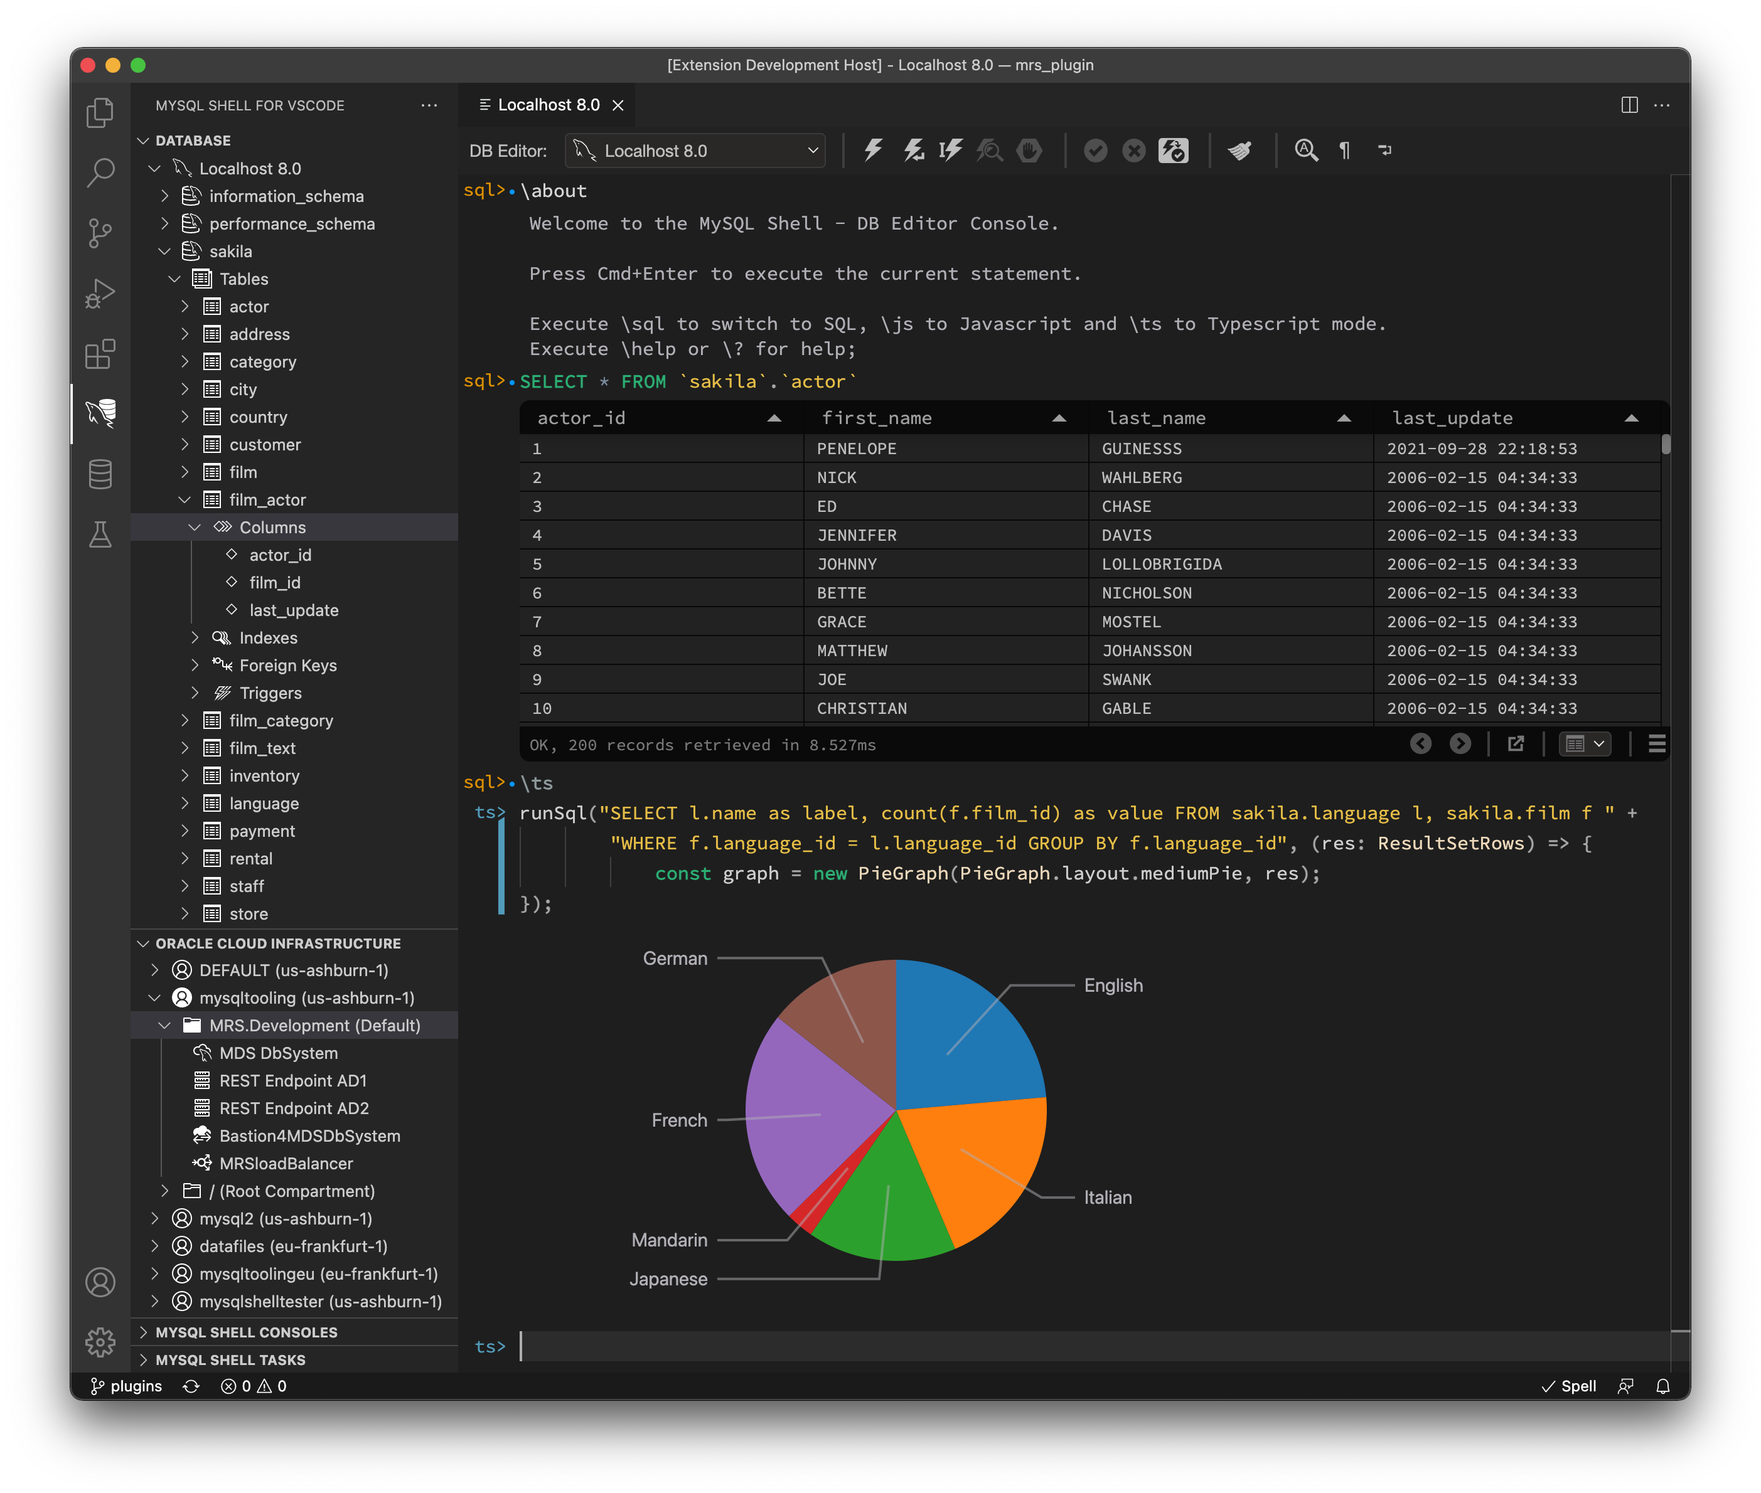
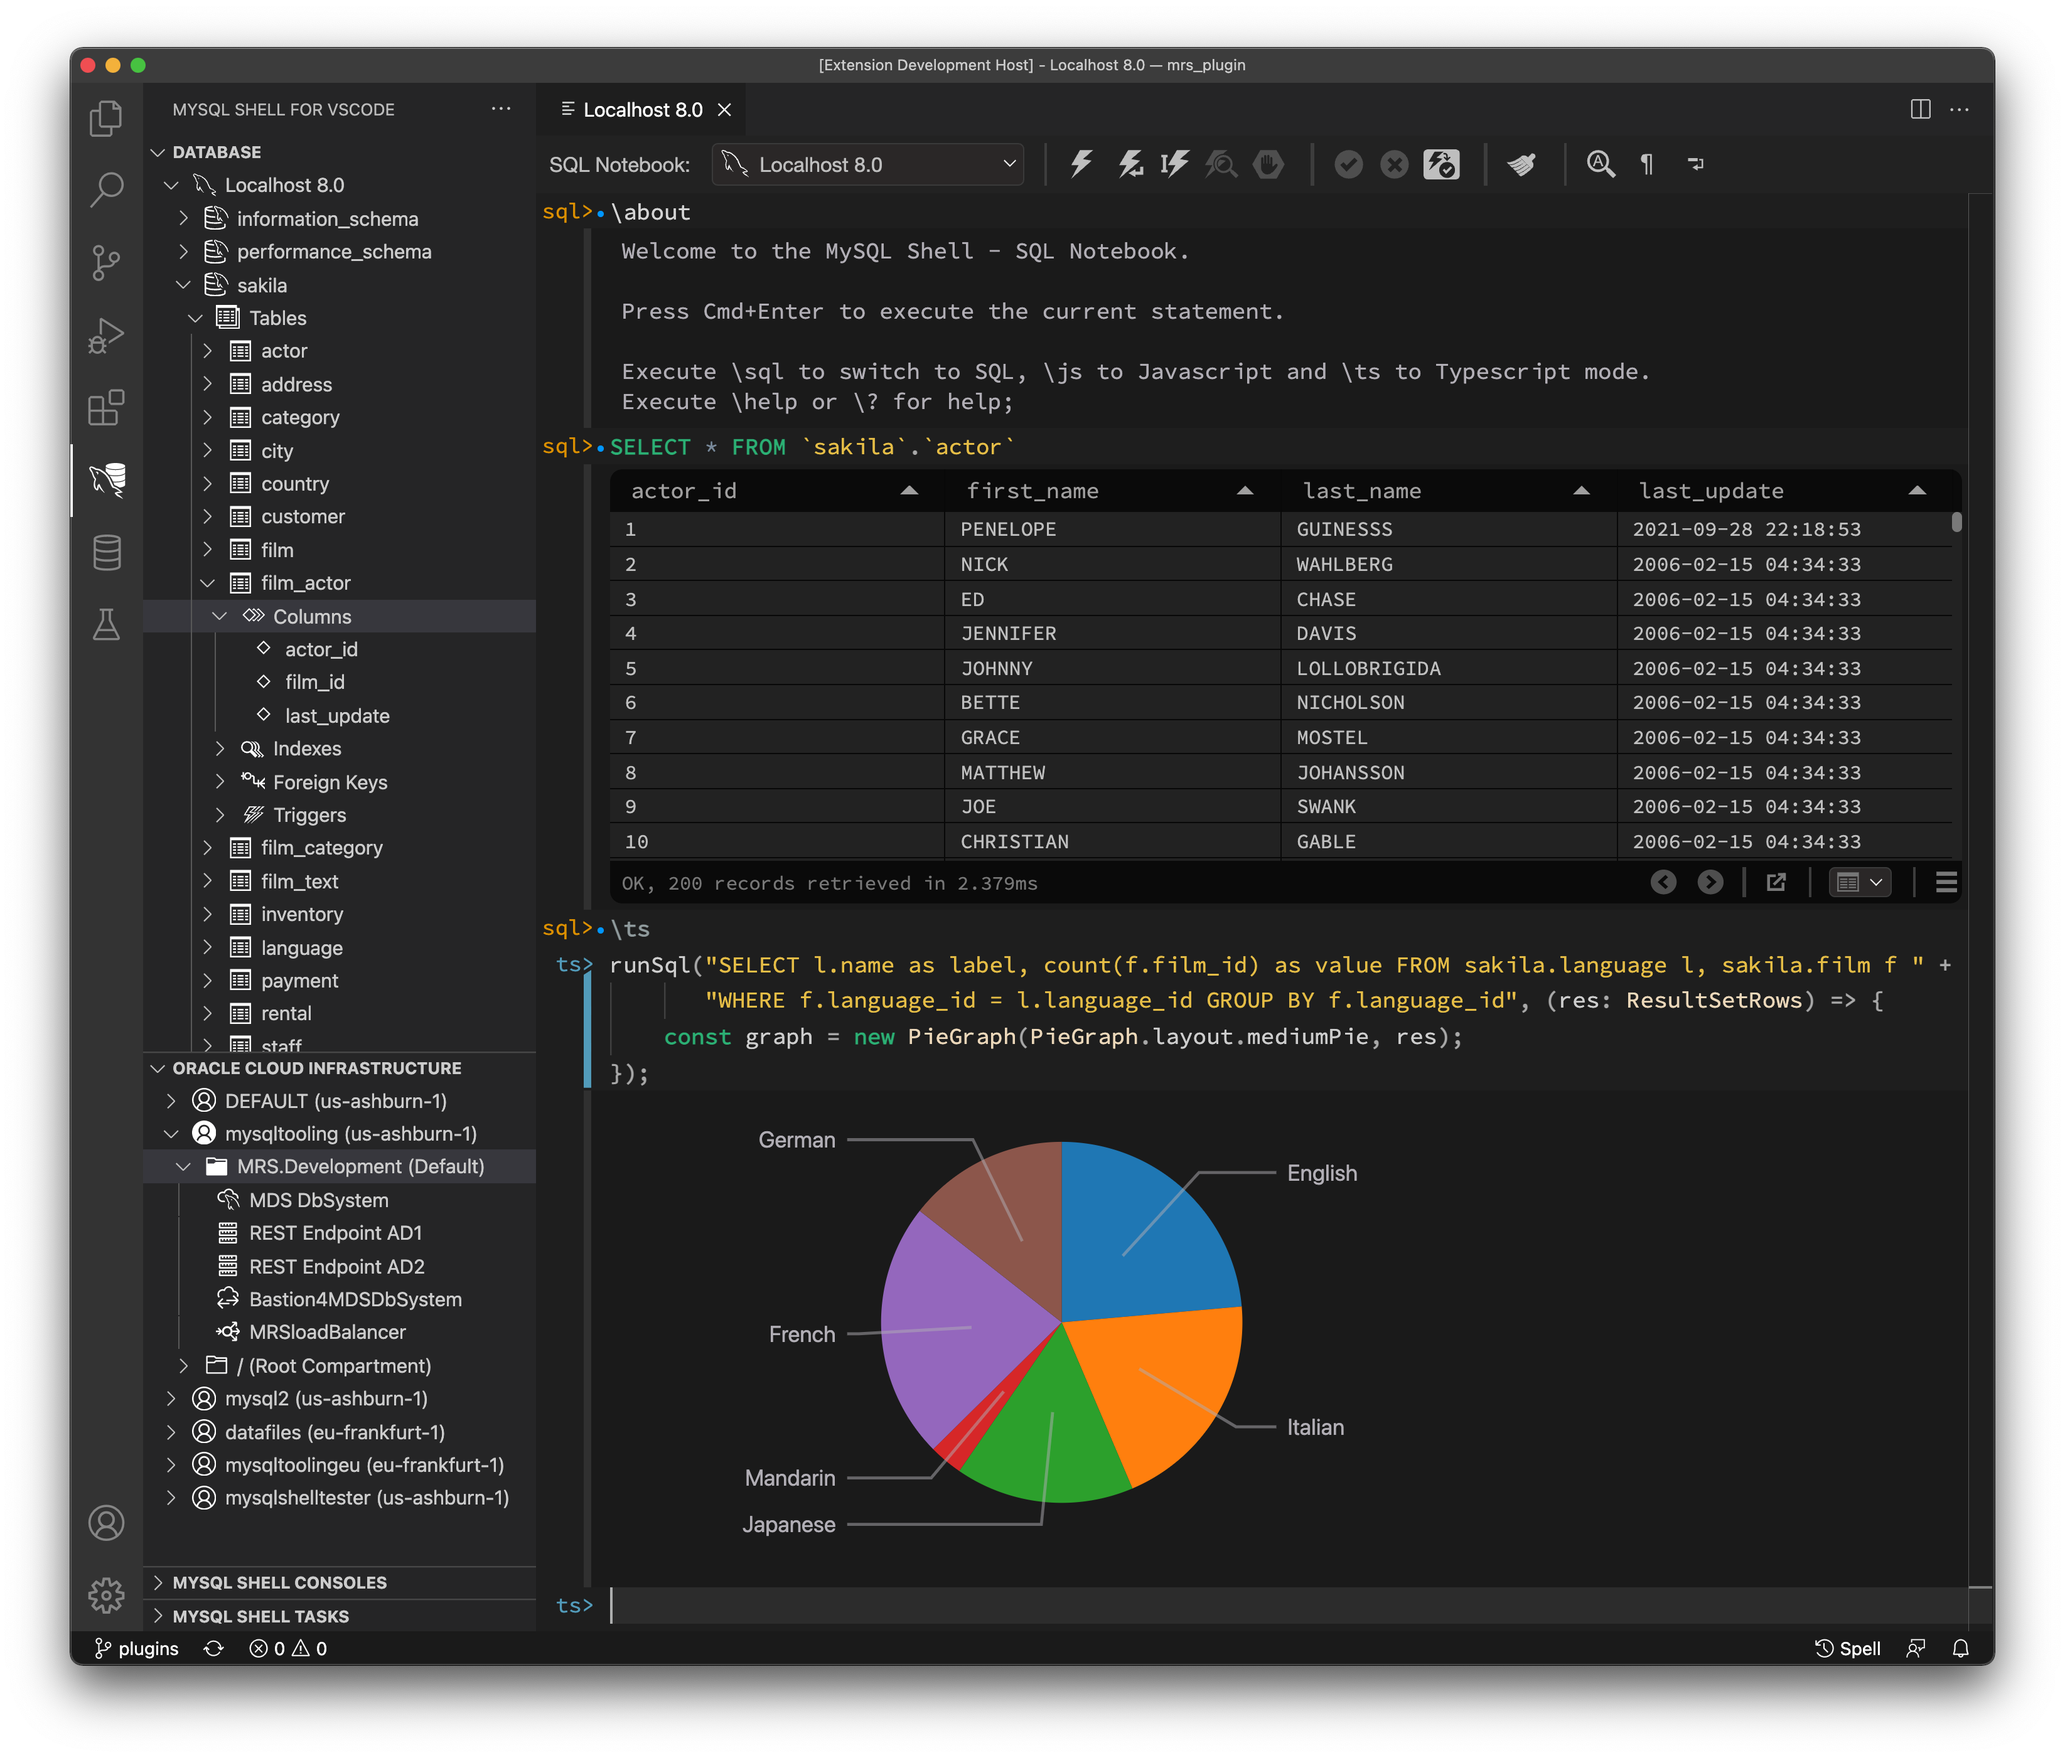
Label changes and version to 1.0.26

diff --git a/gui/extension/src/MDSCommandHandler.ts b/gui/extension/src/MDSCommandHandler.ts
@@ -68,7 +68,23 @@ export class MDSCommandHandler {
                 void workspaceEdit.createFile(configFile, { ignoreIfExists: true });
                 void workspace.applyEdit(workspaceEdit).then(() => {
                     void workspace.openTextDocument(configFile).then((doc: TextDocument) => {
-                        void window.showTextDocument(doc, 1, false);
+                        void window.showTextDocument(doc, 1, false).then((editor) => {
+                            void editor.edit((edit) => {
+                                const firstLine = doc.lineAt(0);
+                                const lastLine = doc.lineAt(doc.lineCount - 1);
+                                const textRange = new Range(firstLine.range.start, lastLine.range.end);
+                                // cSpell:ignore devguidesetupprereq
+                                edit.replace(textRange,
+                                    ";To add a new OCI Profile, please follow these instructions.\n" +
+                                    ";https://docs.oracle.com/en-us/iaas/Content/API/Concepts/" +
+                                    "devguidesetupprereq.htm.\n" +
+                                    ";Then paste your OCI Config here, replacing these lines and save.\n" +
+                                    ";Click the Reload icon in the ORACLE CLOUD INFRASTRUCTURE View.");
+                            }).then(() => {
+                                const position = editor.selection.start;
+                                editor.selection = new Selection(position, position);
+                            });
+                        });
                     });
                 });
             } else {

diff --git a/gui/frontend/src/modules/scripting/ConnectionBrowser.tsx b/gui/frontend/src/modules/scripting/ConnectionBrowser.tsx
@@ -591,7 +591,7 @@ export class ConnectionBrowser extends Component<IConnectionBrowserProperties, I
                 (<Container orientation={Orientation.TopDown}>
                     <Grid columns={["auto"]} columnGap={5}>
                         <GridCell crossAlignment={ContentAlignment.Stretch}>
-                            There is no Bastion in the compartment of this MySQL DB System that can be used.<br/>
+                            There is no Bastion in the compartment of this MySQL DB System that can be used.<br/><br/>
                         </GridCell>
                         <GridCell className="right" crossAlignment={ContentAlignment.Stretch}>
                             Do you want to create a new Bastion in the compartment of the MySQL DB System?
@@ -637,12 +637,12 @@ export class ConnectionBrowser extends Component<IConnectionBrowserProperties, I
                     details,
                 });
             this.editorRef.current?.preventConfirm(true);
-            this.setProgressMessage("Waiting for Bastion creation...");
+            this.setProgressMessage("Waiting up to 5 minutes for Bastion to be created...");
             this.showProgress();
             setTimeout(() => {
                 // update the OCI tree to show the bastion that is created
                 requisitions.executeRemote("refreshOciTree", undefined);
-            }, 5000);
+            }, 8000);
             this.createBastion().then((summary) => {
                 if (summary) {
                     requisitions.executeRemote("refreshOciTree", undefined);

diff --git a/gui/frontend/src/modules/scripting/DBEditorTab.tsx b/gui/frontend/src/modules/scripting/DBEditorTab.tsx
@@ -132,7 +132,7 @@ interface IDBEditorTabState extends IComponentState {
 // A tab page for a single connection (managed by the scripting module).
 export class DBEditorTab extends Component<IDBEditorTabProperties, IDBEditorTabState> {
 
-    private static aboutMessage = `Welcome to the MySQL Shell - DB Editor Console.
+    private static aboutMessage = `Welcome to the MySQL Shell - SQL Notebook.
 
 Press %modifier%+Enter to execute the current statement.
 

diff --git a/gui/frontend/src/modules/scripting/DBEditorModule.tsx b/gui/frontend/src/modules/scripting/DBEditorModule.tsx
@@ -240,7 +240,7 @@ export class DBEditorModule extends ModuleBase<IDBEditorModuleProperties, IDBEdi
             });
 
             toolbarInset = <>
-                <Label style={{ paddingRight: "8px" }}>DB Editor:</Label>
+                <Label style={{ paddingRight: "8px" }}>SQL Notebook:</Label>
                 <Dropdown
                     id="connectionSelector"
                     initialSelection={selectedTab}
